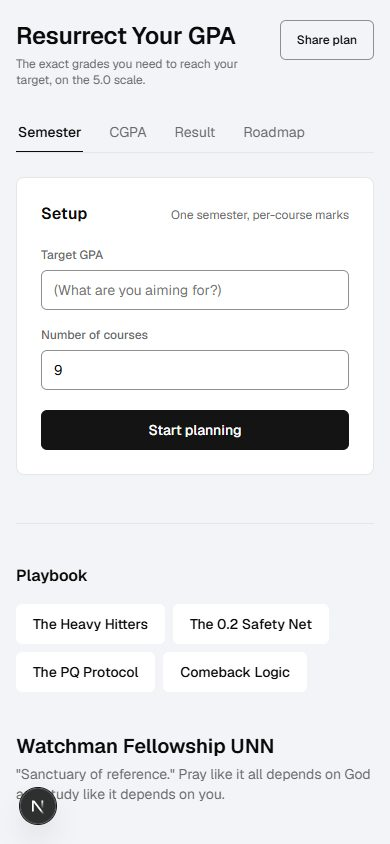
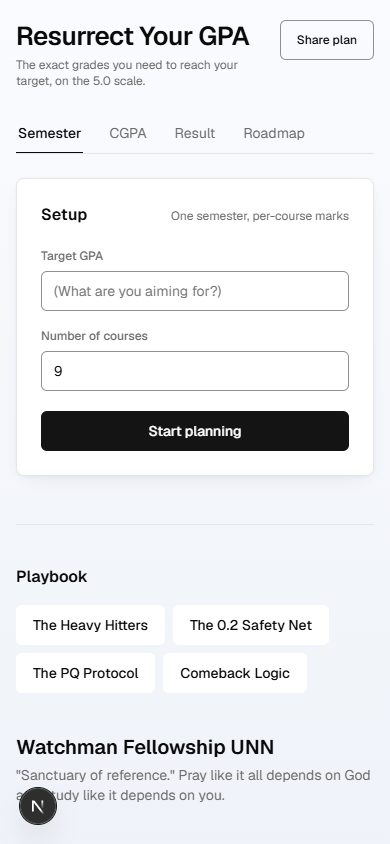
style(design): calibrate v2 to the meter - flat ink buttons, under-8% panel layers, dialog may float

diff --git a/src/app/globals.css b/src/app/globals.css
@@ -20,10 +20,13 @@
   --negative: #c4242a;
   --warning: #92400e;
   --chart-hue: #1d5fbf;
-  /* v2 "lit" additions: cool elevation, frost and focus light (all in the blue family) */
-  --shadow-panel: 0 1px 2px rgba(21, 38, 76, 0.05), 0 8px 24px -8px rgba(21, 38, 76, 0.09),
-    0 24px 48px -24px rgba(21, 38, 76, 0.12);
-  --shadow-raise: 0 1px 2px rgba(10, 10, 10, 0.22), 0 10px 24px -12px rgba(10, 10, 10, 0.32);
+  /* v2 "lit" additions: cool elevation and focus light (all in the blue family).
+     Panels stay bound to the ground: every layer under 8% black, so the depth
+     reads through the top-lit wash, not a shadow. Only the dialog may float. */
+  --shadow-panel: 0 1px 2px rgba(21, 38, 76, 0.04), 0 6px 16px -8px rgba(21, 38, 76, 0.06),
+    0 7px 24px -14px rgba(21, 38, 76, 0.08);
+  --shadow-dialog: 0 1px 2px rgba(21, 38, 76, 0.08), 0 12px 32px -8px rgba(21, 38, 76, 0.18),
+    0 32px 64px -32px rgba(21, 38, 76, 0.22);
   --ring-blue: 0 0 0 3px rgba(29, 95, 191, 0.15);
   --pill-positive-bg: #dcfae5;
   --pill-positive-ink: #04250e;
@@ -65,11 +68,6 @@ body {
   border: 1px solid var(--border);
   border-radius: 8px;
   box-shadow: var(--shadow-panel);
-}
-
-/* The one near-black primary action; its own elevation, tint-free */
-.btn-elevated {
-  box-shadow: var(--shadow-raise);
 }
 
 .card-title {
@@ -199,7 +197,6 @@ body {
 
 .blueprint-item {
   border-radius: 6px;
-  box-shadow: 0 1px 2px rgba(21, 38, 76, 0.05);
   transition: background 0.15s ease, border-color 0.15s ease, transform 0.15s ease,
     box-shadow 0.15s ease;
   border: 1px solid transparent;

diff --git a/src/components/ResultsSection.tsx b/src/components/ResultsSection.tsx
@@ -166,7 +166,7 @@ export function ResultsSection({
           onClick={onDownload}
           disabled={saving}
           aria-busy={saving}
-          className="btn-elevated w-full sm:flex-1 h-10 bg-[#141414] text-white text-sm font-medium rounded-md hover:bg-[#333333] active:bg-[#0a0a0a] transition bg-color disabled:opacity-60"
+          className="w-full sm:flex-1 h-10 bg-[#141414] text-white text-sm font-medium rounded-md hover:bg-[#333333] active:bg-[#0a0a0a] transition bg-color disabled:opacity-60"
         >
           {saving ? "Saving…" : "Save result"}
         </button>

diff --git a/src/components/BlueprintModal.tsx b/src/components/BlueprintModal.tsx
@@ -80,7 +80,7 @@ export function BlueprintModal({ strategyId, onClose }: BlueprintModalProps) {
         ref={panelRef}
         className="bg-white w-full max-w-xl rounded-lg overflow-hidden animate-fade relative max-h-[85vh] flex flex-col"
         style={{
-          boxShadow: "var(--shadow-panel), 0 0 0 1px rgba(21,38,76,0.06)",
+          boxShadow: "var(--shadow-dialog), 0 0 0 1px rgba(21,38,76,0.06)",
           background: "linear-gradient(180deg, #ffffff 0%, #fafbfe 100%)",
         }}
       >

diff --git a/src/components/CourseGrid.tsx b/src/components/CourseGrid.tsx
@@ -97,7 +97,7 @@ export function CourseGrid({
 
       <button
         onClick={onCalculate}
-        className="btn-elevated mt-6 w-full h-10 bg-[#141414] text-white text-sm font-medium rounded-md hover:bg-[#333333] active:bg-[#0a0a0a] transition bg-color"
+        className="mt-6 w-full h-10 bg-[#141414] text-white text-sm font-medium rounded-md hover:bg-[#333333] active:bg-[#0a0a0a] transition bg-color"
       >
         {mode === "result" ? "Compute result" : "Calculate comeback"}
       </button>

diff --git a/src/components/SetupPanel.tsx b/src/components/SetupPanel.tsx
@@ -234,7 +234,7 @@ export function SetupPanel({
 
       <button
         onClick={onStart}
-        className="btn-elevated w-full h-10 bg-[#141414] text-white text-sm font-medium rounded-md hover:bg-[#333333] active:bg-[#0a0a0a] transition bg-color"
+        className="w-full h-10 bg-[#141414] text-white text-sm font-medium rounded-md hover:bg-[#333333] active:bg-[#0a0a0a] transition bg-color"
       >
         {mode === "roadmap"
           ? "Build the plan"
